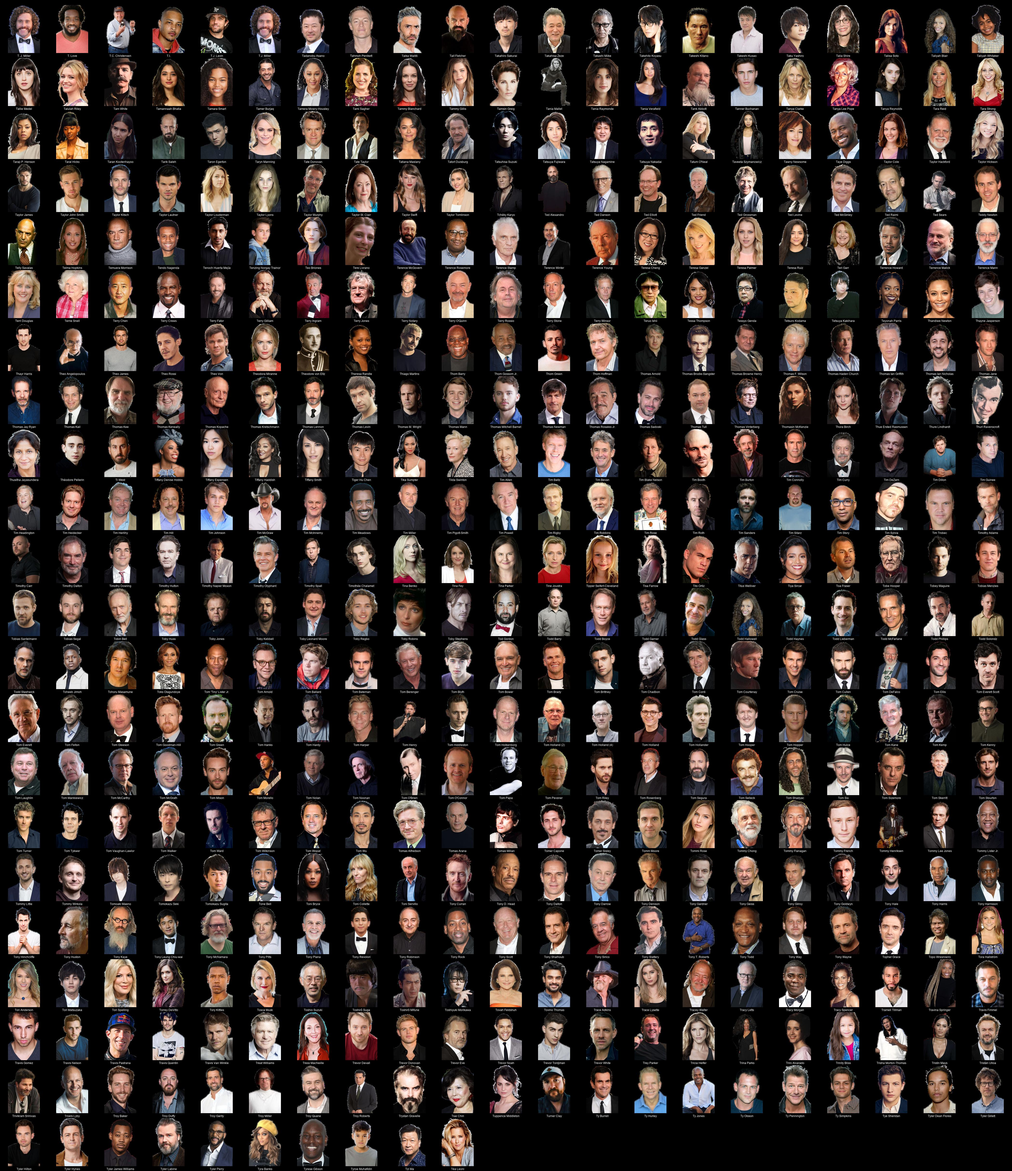
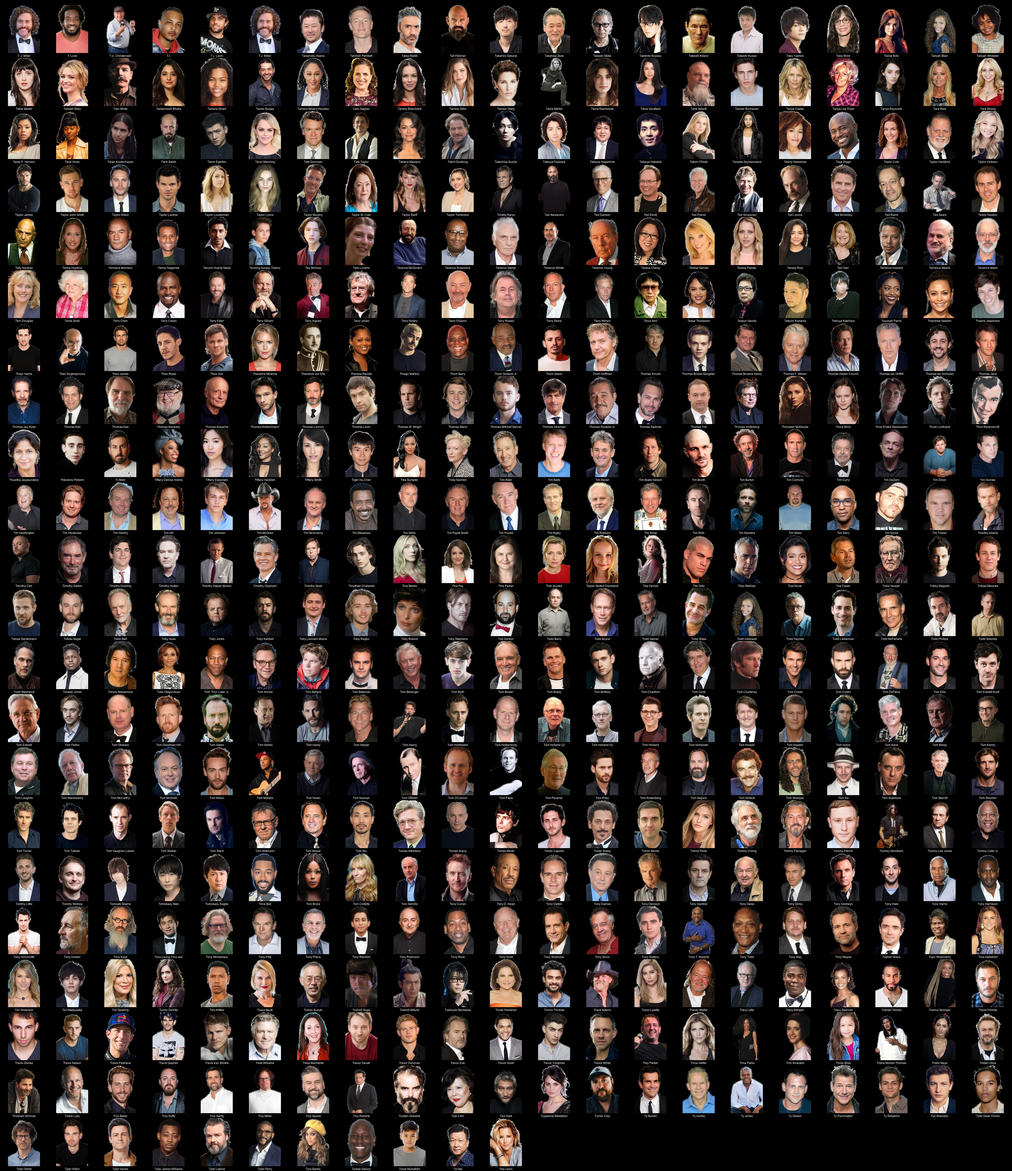
update grids

Changed region(s): [[0.0, 0.901, 0.9981, 1.0]]

diff --git a/README.md b/README.md
@@ -1,10 +1,10 @@
-# Kometa People Images - Transparent (transparent) (9309 Images)
+# Kometa People Images - Transparent (transparent) (9312 Images)
 
 <details><summary><a href="'">' (1 Images)</a></summary>
 
 * ['Weird Al' Yankovic](https://raw.githubusercontent.com/Kometa-Team/People-Images-transparent/master/'/Images/%27Weird%20Al%27%20Yankovic.png)
 </details>
-<details><summary><a href="A">A (762 Images)</a></summary>
+<details><summary><a href="A">A (763 Images)</a></summary>
 
 * [Aamir Khan](https://raw.githubusercontent.com/Kometa-Team/People-Images-transparent/master/A/Images/Aamir%20Khan.png)
 * [Aanand L. Rai](https://raw.githubusercontent.com/Kometa-Team/People-Images-transparent/master/A/Images/Aanand%20L.%20Rai.png)
@@ -253,6 +253,7 @@
 * [Alex Sharpe](https://raw.githubusercontent.com/Kometa-Team/People-Images-transparent/master/A/Images/Alex%20Sharpe.png)
 * [Alex Sol](https://raw.githubusercontent.com/Kometa-Team/People-Images-transparent/master/A/Images/Alex%20Sol.png)
 * [Alex Solowitz](https://raw.githubusercontent.com/Kometa-Team/People-Images-transparent/master/A/Images/Alex%20Solowitz.png)
+* [Alex Trebek](https://raw.githubusercontent.com/Kometa-Team/People-Images-transparent/master/A/Images/Alex%20Trebek.png)
 * [Alex Winter](https://raw.githubusercontent.com/Kometa-Team/People-Images-transparent/master/A/Images/Alex%20Winter.png)
 * [Alex Winters](https://raw.githubusercontent.com/Kometa-Team/People-Images-transparent/master/A/Images/Alex%20Winters.png)
 * [Alex Wolff](https://raw.githubusercontent.com/Kometa-Team/People-Images-transparent/master/A/Images/Alex%20Wolff.png)
@@ -769,7 +770,7 @@
 * [Azhar Usman](https://raw.githubusercontent.com/Kometa-Team/People-Images-transparent/master/A/Images/Azhar%20Usman.png)
 * [Aziz Ansari](https://raw.githubusercontent.com/Kometa-Team/People-Images-transparent/master/A/Images/Aziz%20Ansari.png)
 </details>
-<details><summary><a href="B">B (466 Images)</a></summary>
+<details><summary><a href="B">B (467 Images)</a></summary>
 
 * [B.J. Penn](https://raw.githubusercontent.com/Kometa-Team/People-Images-transparent/master/B/Images/B.J.%20Penn.png)
 * [BD Wong](https://raw.githubusercontent.com/Kometa-Team/People-Images-transparent/master/B/Images/BD%20Wong.png)
@@ -910,6 +911,7 @@
 * [Bertie Carvel](https://raw.githubusercontent.com/Kometa-Team/People-Images-transparent/master/B/Images/Bertie%20Carvel.png)
 * [Bess Flowers](https://raw.githubusercontent.com/Kometa-Team/People-Images-transparent/master/B/Images/Bess%20Flowers.png)
 * [Beth Grant](https://raw.githubusercontent.com/Kometa-Team/People-Images-transparent/master/B/Images/Beth%20Grant.png)
+* [Beth Riesgraf](https://raw.githubusercontent.com/Kometa-Team/People-Images-transparent/master/B/Images/Beth%20Riesgraf.png)
 * [Bethany Joy Lenz](https://raw.githubusercontent.com/Kometa-Team/People-Images-transparent/master/B/Images/Bethany%20Joy%20Lenz.png)
 * [Bethlehem Million](https://raw.githubusercontent.com/Kometa-Team/People-Images-transparent/master/B/Images/Bethlehem%20Million.png)
 * [Betsy Brandt](https://raw.githubusercontent.com/Kometa-Team/People-Images-transparent/master/B/Images/Betsy%20Brandt.png)
@@ -8496,7 +8498,7 @@
 * [Søren Pilmark](https://raw.githubusercontent.com/Kometa-Team/People-Images-transparent/master/S/Images/S%C3%B8ren%20Pilmark.png)
 * [Sō Yamanaka](https://raw.githubusercontent.com/Kometa-Team/People-Images-transparent/master/S/Images/S%C5%8D%20Yamanaka.png)
 </details>
-<details><summary><a href="T">T (451 Images)</a></summary>
+<details><summary><a href="T">T (452 Images)</a></summary>
 
 * [T. J. Miller](https://raw.githubusercontent.com/Kometa-Team/People-Images-transparent/master/T/Images/T.%20J.%20Miller.png)
 * [T. Love](https://raw.githubusercontent.com/Kometa-Team/People-Images-transparent/master/T/Images/T.%20Love.png)
@@ -8928,6 +8930,7 @@
 * [Troy Roberts](https://raw.githubusercontent.com/Kometa-Team/People-Images-transparent/master/T/Images/Troy%20Roberts.png)
 * [Trystan Gravelle](https://raw.githubusercontent.com/Kometa-Team/People-Images-transparent/master/T/Images/Trystan%20Gravelle.png)
 * [Tsai Chin](https://raw.githubusercontent.com/Kometa-Team/People-Images-transparent/master/T/Images/Tsai%20Chin.png)
+* [Tsui Hark](https://raw.githubusercontent.com/Kometa-Team/People-Images-transparent/master/T/Images/Tsui%20Hark.png)
 * [Tuppence Middleton](https://raw.githubusercontent.com/Kometa-Team/People-Images-transparent/master/T/Images/Tuppence%20Middleton.png)
 * [Turner Clay](https://raw.githubusercontent.com/Kometa-Team/People-Images-transparent/master/T/Images/Turner%20Clay.png)
 * [Ty Burrell](https://raw.githubusercontent.com/Kometa-Team/People-Images-transparent/master/T/Images/Ty%20Burrell.png)

diff --git a/B/README.md b/B/README.md
@@ -1,4 +1,4 @@
-# Kometa People Images - Transparent (transparent) - B (466 Images)
+# Kometa People Images - Transparent (transparent) - B (467 Images)
 ![Grid](grid.jpg)
 
 * [B.J. Penn](https://raw.githubusercontent.com/Kometa-Team/People-Images-transparent/master/B/Images/B.J.%20Penn.png)
@@ -140,6 +140,7 @@
 * [Bertie Carvel](https://raw.githubusercontent.com/Kometa-Team/People-Images-transparent/master/B/Images/Bertie%20Carvel.png)
 * [Bess Flowers](https://raw.githubusercontent.com/Kometa-Team/People-Images-transparent/master/B/Images/Bess%20Flowers.png)
 * [Beth Grant](https://raw.githubusercontent.com/Kometa-Team/People-Images-transparent/master/B/Images/Beth%20Grant.png)
+* [Beth Riesgraf](https://raw.githubusercontent.com/Kometa-Team/People-Images-transparent/master/B/Images/Beth%20Riesgraf.png)
 * [Bethany Joy Lenz](https://raw.githubusercontent.com/Kometa-Team/People-Images-transparent/master/B/Images/Bethany%20Joy%20Lenz.png)
 * [Bethlehem Million](https://raw.githubusercontent.com/Kometa-Team/People-Images-transparent/master/B/Images/Bethlehem%20Million.png)
 * [Betsy Brandt](https://raw.githubusercontent.com/Kometa-Team/People-Images-transparent/master/B/Images/Betsy%20Brandt.png)

diff --git a/T/README.md b/T/README.md
@@ -1,4 +1,4 @@
-# Kometa People Images - Transparent (transparent) - T (451 Images)
+# Kometa People Images - Transparent (transparent) - T (452 Images)
 ![Grid](grid.jpg)
 
 * [T. J. Miller](https://raw.githubusercontent.com/Kometa-Team/People-Images-transparent/master/T/Images/T.%20J.%20Miller.png)
@@ -431,6 +431,7 @@
 * [Troy Roberts](https://raw.githubusercontent.com/Kometa-Team/People-Images-transparent/master/T/Images/Troy%20Roberts.png)
 * [Trystan Gravelle](https://raw.githubusercontent.com/Kometa-Team/People-Images-transparent/master/T/Images/Trystan%20Gravelle.png)
 * [Tsai Chin](https://raw.githubusercontent.com/Kometa-Team/People-Images-transparent/master/T/Images/Tsai%20Chin.png)
+* [Tsui Hark](https://raw.githubusercontent.com/Kometa-Team/People-Images-transparent/master/T/Images/Tsui%20Hark.png)
 * [Tuppence Middleton](https://raw.githubusercontent.com/Kometa-Team/People-Images-transparent/master/T/Images/Tuppence%20Middleton.png)
 * [Turner Clay](https://raw.githubusercontent.com/Kometa-Team/People-Images-transparent/master/T/Images/Turner%20Clay.png)
 * [Ty Burrell](https://raw.githubusercontent.com/Kometa-Team/People-Images-transparent/master/T/Images/Ty%20Burrell.png)

diff --git a/A/README.md b/A/README.md
@@ -1,4 +1,4 @@
-# Kometa People Images - Transparent (transparent) - A (762 Images)
+# Kometa People Images - Transparent (transparent) - A (763 Images)
 ![Grid](grid.jpg)
 
 * [Aamir Khan](https://raw.githubusercontent.com/Kometa-Team/People-Images-transparent/master/A/Images/Aamir%20Khan.png)
@@ -248,6 +248,7 @@
 * [Alex Sharpe](https://raw.githubusercontent.com/Kometa-Team/People-Images-transparent/master/A/Images/Alex%20Sharpe.png)
 * [Alex Sol](https://raw.githubusercontent.com/Kometa-Team/People-Images-transparent/master/A/Images/Alex%20Sol.png)
 * [Alex Solowitz](https://raw.githubusercontent.com/Kometa-Team/People-Images-transparent/master/A/Images/Alex%20Solowitz.png)
+* [Alex Trebek](https://raw.githubusercontent.com/Kometa-Team/People-Images-transparent/master/A/Images/Alex%20Trebek.png)
 * [Alex Winter](https://raw.githubusercontent.com/Kometa-Team/People-Images-transparent/master/A/Images/Alex%20Winter.png)
 * [Alex Winters](https://raw.githubusercontent.com/Kometa-Team/People-Images-transparent/master/A/Images/Alex%20Winters.png)
 * [Alex Wolff](https://raw.githubusercontent.com/Kometa-Team/People-Images-transparent/master/A/Images/Alex%20Wolff.png)
